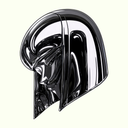
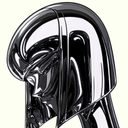
Nami: new photo (head + neck, fixed square crop, Claw White); remove white glow

diff --git a/src/orb.css b/src/orb.css
@@ -10,6 +10,3 @@
 .bot-options .btn-ghost.on { box-shadow: inset 0 0 0 1px var(--foreground); }
 /* Colour already taken by another agent (agents page): still selectable, but dimmed. */
 .bot-option.taken .orb { opacity: 0.35; }
-
-/* Soft white glow around the team lead's photo on the Agents page (mobile pinned photo, desktop lead card). */
-.m-pin-photo .bot-avatar, .sb-agent-tile.lead .bot-avatar { box-shadow: 0 0 18px 3px rgba(255, 255, 255, 0.38), 0 0 4px 1px rgba(255, 255, 255, 0.3); }
